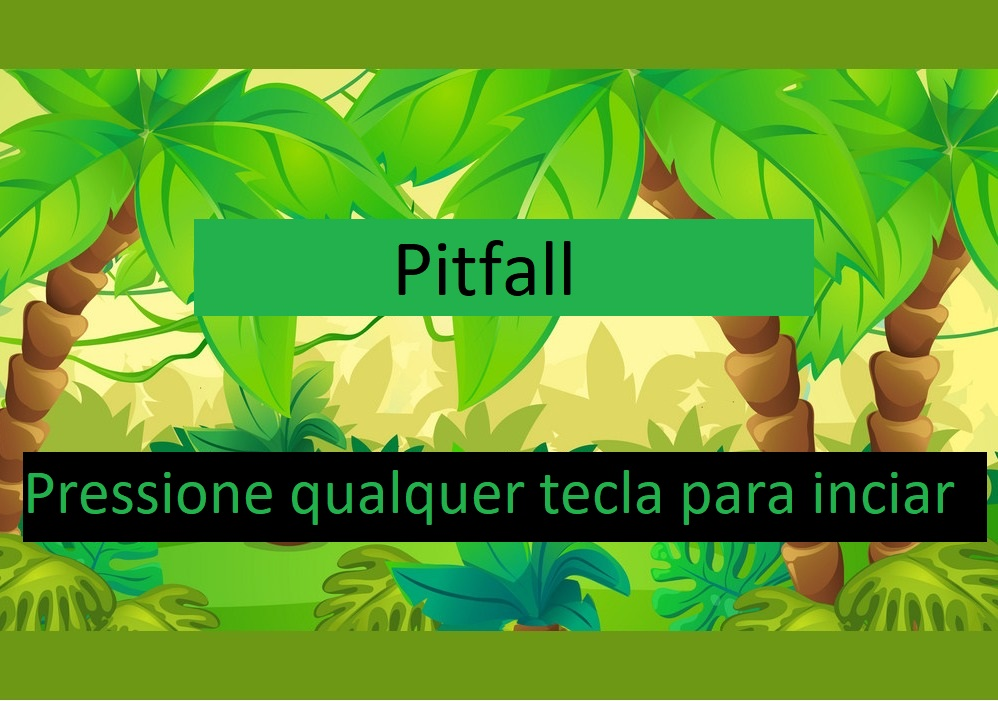
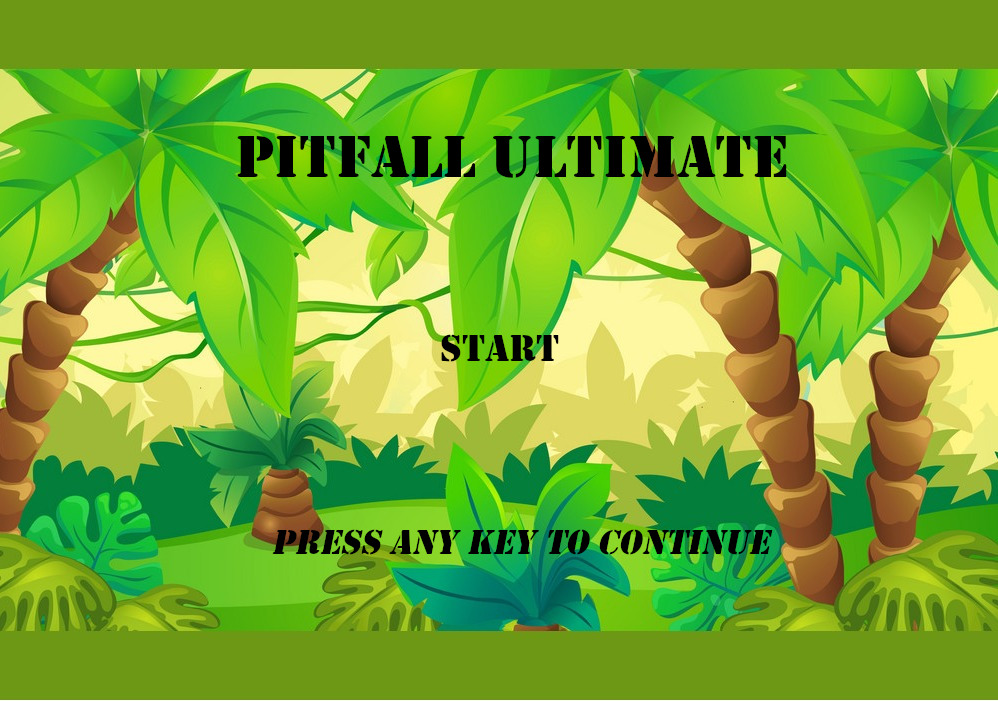
adicionando tela de inicio

Changed region(s): [[0.0, 0.6291, 0.994, 0.8088], [0.1864, 0.2996, 0.8387, 0.5392], [0.2174, 0.1797, 0.8076, 0.2696]]

diff --git a/Pitfall.py b/Pitfall.py
@@ -223,6 +223,30 @@ def init_screen(screen):
     # Carrega o fundo da tela inicial
     background_init = assets["background_init"]
     background_rect = background_init.get_rect()
+        
+#        def __init__(self,player_img):
+#        
+#        # Construtor da classe pai (Sprite).
+#        pygame.sprite.Sprite.__init__(self)
+#        
+#        self.image =pygame.transform.scale(player_img, (60, 103))
+#        
+#        
+#        # Detalhes sobre o posicionamento.
+#        self.rect = self.image.get_rect()
+#        
+#        self.image.set_colorkey(BLACK)
+#        
+#        # Centraliza embaixo da tela.
+#        self.rect.centerx = WIDTH - 800
+#        self.rect.bottom = HEIGHT - 300 
+#        
+#        # Velocidade da nave
+#        self.speedx = 0
+#        self.speedy= 0
+#        
+#        # Melhora a colisão estabelecendo um raio de um circulo
+#        self.radius = 25
 
     running = True
     while running:
